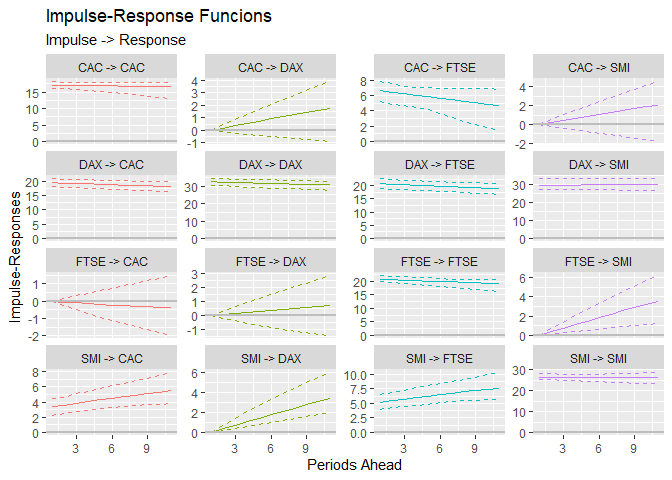
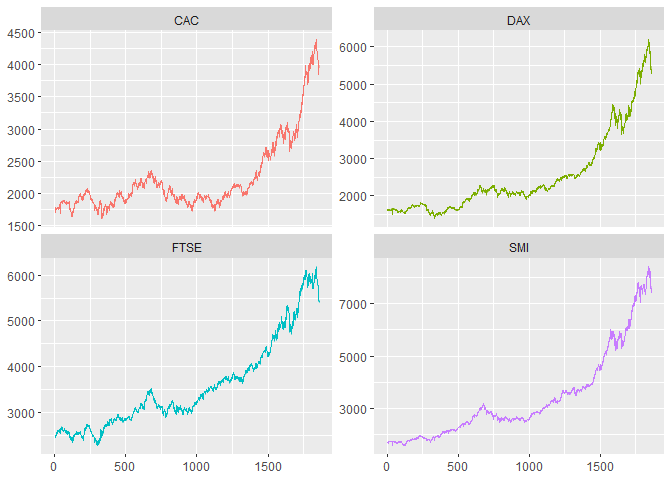
improved docs. `autoplot.tv_predict` handle dates.

diff --git a/README.md b/README.md
@@ -3,7 +3,7 @@
 
 # tidyvars
 
-> “tidiers” extension for VAR models
+> “tidiers” for VAR models
 
 <!-- badges: start -->
 
@@ -14,6 +14,7 @@ experimental](https://img.shields.io/badge/lifecycle-experimental-orange.svg)](h
 status](https://www.r-pkg.org/badges/version/tidyvars)](https://CRAN.R-project.org/package=tidyvars)
 [![Codecov test
 coverage](https://codecov.io/gh/Reckziegel/tidyvars/branch/main/graph/badge.svg)](https://app.codecov.io/gh/Reckziegel/tidyvars?branch=main)
+
 <!-- badges: end -->
 
 `tidyvars` is designed to integrate the `vars` package with the
@@ -136,7 +137,7 @@ tv_serial_test(mod)
 #> 4 ES                  3.29         80        0 Edgerton-Shukur F test
 ```
 
-To delve deeper into the causal relationships see `tv_causality()`:
+To delve deeper into the causal relationships, see `tv_causality()`:
 
 ``` r
 # Analyzes causal relationships in the VAR model
@@ -154,25 +155,12 @@ tv_causality(mod)
 #> 8 FTSE   instant     650.            3 0        H0: No instantaneous causality ~
 ```
 
-When the primary focus is on forecasting, `tv_predict()` can be handy:
+VAR models are specially useful for forecasting given the ability to
+capture interdependencies of multiple time series. In `tidyvars`, this
+task be easily accomplished with `tv_predict()`:
 
 ``` r
 # Generates forecasts from the VAR model
-tv_predict(mod)
-#> # A tibble: 40 x 6
-#>    rowid .asset  fcst lower upper    CI
-#>    <int> <chr>  <dbl> <dbl> <dbl> <dbl>
-#>  1     1 DAX    5478. 5415. 5541.  63.4
-#>  2     2 DAX    5482. 5393. 5572.  89.4
-#>  3     3 DAX    5486. 5377. 5596. 109. 
-#>  4     4 DAX    5490. 5365. 5616. 126. 
-#>  5     5 DAX    5494. 5354. 5635. 140. 
-#>  6     6 DAX    5498. 5345. 5652. 153. 
-#>  7     7 DAX    5502. 5337. 5667. 165. 
-#>  8     8 DAX    5506. 5330. 5682. 176. 
-#>  9     9 DAX    5510. 5323. 5696. 186. 
-#> 10    10 DAX    5513. 5317. 5709. 196. 
-#> # i 30 more rows
 tv_predict(mod, n.ahead = 1)
 #> # A tibble: 4 x 6
 #>   rowid .asset  fcst lower upper    CI
@@ -181,10 +169,34 @@ tv_predict(mod, n.ahead = 1)
 #> 2     1 SMI    7674. 7596. 7753.  78.1
 #> 3     1 CAC    3998. 3947. 4050.  51.3
 #> 4     1 FTSE   5458. 5398. 5518.  59.9
+tv_predict(mod, n.ahead = 5)
+#> # A tibble: 20 x 6
+#>    rowid .asset  fcst lower upper    CI
+#>    <int> <chr>  <dbl> <dbl> <dbl> <dbl>
+#>  1     1 DAX    5478. 5415. 5541.  63.4
+#>  2     2 DAX    5482. 5393. 5572.  89.4
+#>  3     3 DAX    5486. 5377. 5596. 109. 
+#>  4     4 DAX    5490. 5365. 5616. 126. 
+#>  5     5 DAX    5494. 5354. 5635. 140. 
+#>  6     1 SMI    7674. 7596. 7753.  78.1
+#>  7     2 SMI    7673. 7562. 7783. 111. 
+#>  8     3 SMI    7671. 7535. 7806. 135. 
+#>  9     4 SMI    7669. 7513. 7826. 156. 
+#> 10     5 SMI    7667. 7493. 7842. 175. 
+#> 11     1 CAC    3998. 3947. 4050.  51.3
+#> 12     2 CAC    4002. 3929. 4074.  72.5
+#> 13     3 CAC    4005. 3917. 4094.  88.6
+#> 14     4 CAC    4008. 3906. 4110. 102. 
+#> 15     5 CAC    4012. 3898. 4125. 114. 
+#> 16     1 FTSE   5458. 5398. 5518.  59.9
+#> 17     2 FTSE   5462. 5377. 5546.  84.4
+#> 18     3 FTSE   5465. 5362. 5568. 103. 
+#> 19     4 FTSE   5468. 5349. 5586. 118. 
+#> 20     5 FTSE   5471. 5339. 5602. 132.
 ```
 
-For more nuanced inferences about the relationships among variables in
-the model, use `tv_fevd()` and `tv_irf()`:
+For more nuanced inferences about the relationships in the model, use
+`tv_fevd()` and `tv_irf()`:
 
 ``` r
 # Conducts Forecast Error Variance Decomposition
@@ -209,16 +221,33 @@ tv_irf(mod)
 #> # A tibble: 176 x 6
 #>    rowid .impulse .asset  .irf .lower .upper
 #>    <int> <chr>    <chr>  <dbl>  <dbl>  <dbl>
-#>  1     1 DAX      DAX     32.4   30.5   34.3
-#>  2     1 DAX      SMI     29.8   26.1   32.9
-#>  3     1 DAX      CAC     19.5   17.7   21.4
-#>  4     1 DAX      FTSE    20.8   18.8   22.8
-#>  5     2 DAX      DAX     32.2   30.2   34.1
-#>  6     2 DAX      SMI     29.8   25.9   32.9
-#>  7     2 DAX      CAC     19.4   17.4   21.1
+#>  1     1 DAX      DAX     32.4   30.1   34.4
+#>  2     1 DAX      SMI     29.8   26.7   32.6
+#>  3     1 DAX      CAC     19.5   17.9   21.2
+#>  4     1 DAX      FTSE    20.8   18.7   22.7
+#>  5     2 DAX      DAX     32.2   29.9   34.1
+#>  6     2 DAX      SMI     29.8   26.9   32.7
+#>  7     2 DAX      CAC     19.4   17.8   21.0
 #>  8     2 DAX      FTSE    20.6   18.5   22.4
-#>  9     3 DAX      DAX     32.0   29.9   33.7
-#> 10     3 DAX      SMI     29.9   25.8   32.9
+#>  9     3 DAX      DAX     32.0   29.7   33.9
+#> 10     3 DAX      SMI     29.9   27.0   32.8
+#> # i 166 more rows
+
+# IRF from Blanchard-Quah Decomposition
+tv_irf(vars::BQ(mod))
+#> # A tibble: 176 x 6
+#>    rowid .impulse .asset  .irf .lower .upper
+#>    <int> <chr>    <chr>  <dbl>  <dbl>  <dbl>
+#>  1     1 DAX      DAX     5.23  -4.81   24.6
+#>  2     1 DAX      SMI     8.49  -7.82   35.9
+#>  3     1 DAX      CAC    -8.84 -14.2    18.1
+#>  4     1 DAX      FTSE   12.9   -5.73   28.4
+#>  5     2 DAX      DAX     5.15  -4.72   24.6
+#>  6     2 DAX      SMI     8.58  -7.86   35.9
+#>  7     2 DAX      CAC    -8.82 -14.2    18.1
+#>  8     2 DAX      FTSE   12.9   -5.75   28.3
+#>  9     3 DAX      DAX     5.08  -4.63   24.7
+#> 10     3 DAX      SMI     8.66  -7.90   36.0
 #> # i 166 more rows
 ```
 
@@ -228,29 +257,36 @@ system and impact other variables over time.
 
 ## Plotting
 
-`tidyvars` integrates the `autoplot()` method for each of its functions
-to enhance the user experience with a quick and intuitive visual
+`tidyvars` integrates the `autoplot()` method for most functions to
+enhance the user experience with a quick and intuitive visual
 representation of model outputs.
 
 See some examples bellow:
+
+``` r
+# Fitted Model
+autoplot(tv_augment(mod))
+```
+
+<img src="man/figures/README-unnamed-chunk-6-1.png" width="100%" />
 
 ``` r
 # Visualizes Impulse Response Functions
 autoplot(tv_irf(mod))
 ```
 
-<img src="man/figures/README-unnamed-chunk-6-1.png" width="100%" />
+<img src="man/figures/README-unnamed-chunk-6-2.png" width="100%" />
 
 ``` r
 # Displays Forecast Error Variance Decomposition
 autoplot(tv_fevd(mod))
 ```
 
-<img src="man/figures/README-unnamed-chunk-6-2.png" width="100%" />
+<img src="man/figures/README-unnamed-chunk-6-3.png" width="100%" />
 
 ``` r
 # Generates visual forecasts
 autoplot(tv_predict(mod, n.ahead = 12))
 ```
 
-<img src="man/figures/README-unnamed-chunk-6-3.png" width="100%" />
+<img src="man/figures/README-unnamed-chunk-6-4.png" width="100%" />
